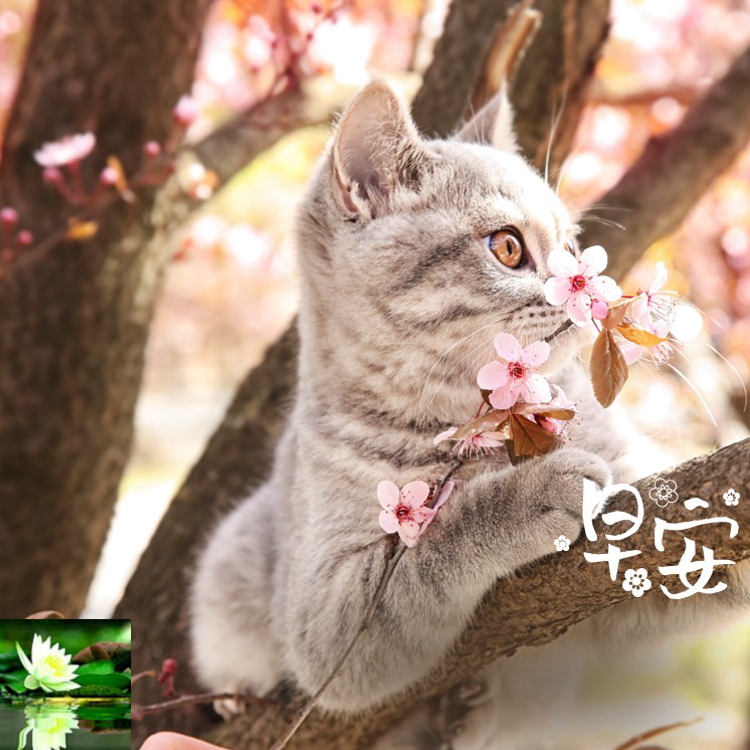
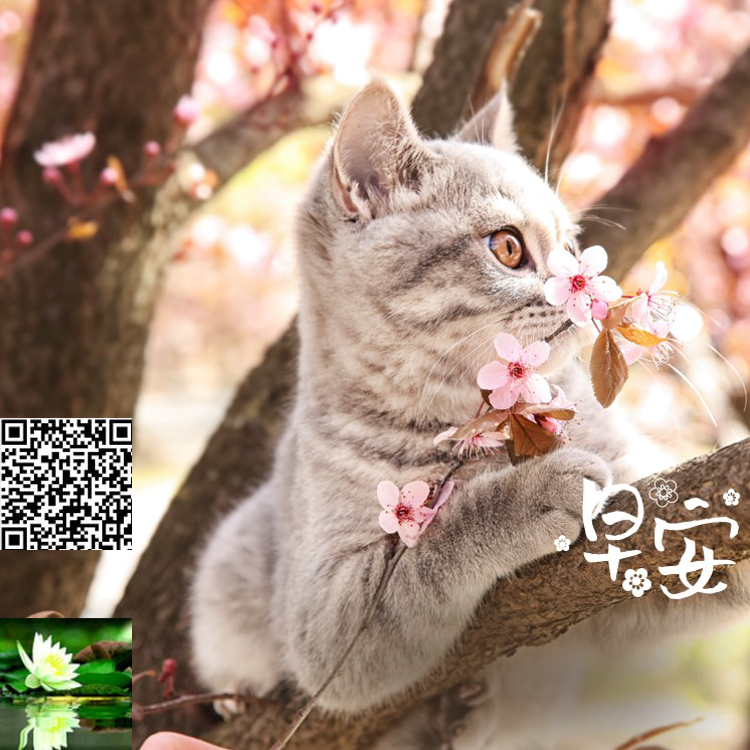
feat: use 3rd module cutter to clip image

Changed region(s): [[0.0, 0.552, 0.184, 0.736], [0.0, 0.828, 0.184, 1.0]]

diff --git a/src/canvas/image.go b/src/canvas/image.go
@@ -18,84 +18,6 @@ import (
 	// "github.com/golang/freetype/raster"
 )
 
-// 兜底图片方案的image_key在Image对象中传递
-func (i *Image) fetch() error {
-	var err error
-
-	if i.ImageURL == "" {
-		err = errors.New("image url can not be empty")
-		log.Info().
-			Err(err).
-			Msg("fetch one image failed, error")
-		return err
-	}
-	var img []byte
-	var t string
-	// if image.LocalBufferName != "" {
-	// 	name := fmt.Sprintf("%s::%s", businessName, image.LocalBufferName)
-	// 	img, t, err = b.getLocalBufferImage(name, image)
-	// 	libs.Log().Info("trace_id(%s) get image(%+v) from local buffer, err(%+v)", traceId, image, err)
-	// } else {
-	img, t, err = loadImageByteFromRemote(i.ImageURL, i.Width, i.Height)
-	// libs.Log().Info("trace_id(%s) get image(%+v) from remote, err(%+v)", traceId, image, err)
-	// }
-
-	i.MimeType = t
-	i.Buffer = img
-	return nil
-}
-
-// imageWidth: number,
-// imageHeight: number,
-// offsetX: number,
-// offsetY: number,
-// radius: number | number[]
-// func RoundMask(w float64, h float64, r float64) {
-// 	// p := &Path{}
-// 	// p.MoveTo(rx, 0.0)
-// 	// p.ArcTo(rx, ry, 0.0, false, true, -rx, 0.0)
-// 	// p.ArcTo(rx, ry, 0.0, false, true, rx, 0.0)
-// 	// p.Close()
-// 	return p
-// }
-
-// ClipPreserve updates the clipping region by intersecting the current
-// clipping region with the current path as it would be filled by dc.Fill().
-// The path is preserved after this operation.
-func ClipPreserve(c *canvas.Context, i *Image, dst *image.RGBA) (draw.Image, error) {
-	fmt.Println("ClipPreserve === 1", c.Width(), c.Height(), i.BorderRadius)
-	// var mask Path
-	mask := Path{*canvas.RoundedRectangle(i.Width, i.Height, i.BorderRadius), i}
-	fmt.Println("ClipPreserve === 2", mask)
-	tempPath := imaging.Resize(&mask, int(i.Width), int(i.Height), imaging.Linear)
-
-	fmt.Println("ClipPreserve === TODO 3")
-	fmt.Println("ClipPreserve === 4", i.Y, i.Height)
-	// &Circle{pt, dx / 2}, nil
-	// golang-draw传入的是图片的起点，取负值不知道为什么
-	// pt := image.Pt(-int(i.X), -int(i.Y))
-
-	// zero := image.Pt(0, 0)
-
-	pt := image.Pt(-int(i.X), -int(i.Y))
-	// painter := raster.NewAlphaOverPainter(clip)
-	// dc.fill(painter)
-	// if dc.mask == nil {
-	// 	dc.mask = clip
-	// } else {
-	// mask := image.NewAlpha(image.Rect(0, 0, dc.width, dc.height))
-
-	img, _ := ConvertBytesToImage(i.Buffer, i.MimeType)
-
-	fmt.Println("ClipPreserve === 5")
-	// image.ZP
-	draw.DrawMask(dst, dst.Bounds(), img, pt, tempPath, pt, draw.Over)
-	// dc.mask = mask
-	// }
-
-	return dst, nil
-}
-
 // Draw image
 func (i *Image) Draw(c *canvas.Context) {
 	// draw.DrawMask(dst, dst.Bounds(), src, image.ZP, &circle{p, r}, image.ZP, draw.Over)
@@ -116,23 +38,36 @@ func (i *Image) Draw(c *canvas.Context) {
 
 	// fmt.Println("===4")
 	img, _ := ConvertBytesToImage(i.Buffer, i.MimeType)
-	fmt.Println("=== image_draw: ", i.MimeType, i.ImageURL, i.Width, i.Height)
 
-	// 获取实际图片尺寸和传入参数之间的比例
-	scale := (float64(img.Bounds().Dx()) / i.Width)
-	fmt.Println("=== scale", scale)
+	// fmt.Println("=== scale", scale, i.Width)
 
 	// test 图片切圆角功能
 	// if i.BorderRadius > 0 {
-	dst := image.NewRGBA(image.Rect(0, 0, int(i.Width), int(i.Height)))
-	img, _ = ClipPreserve(c, i, dst)
+	// 	dst := image.NewRGBA(image.Rect(0, 0, int(i.Width), int(i.Height)))
+	// 	img, _ = ClipPreserve(c, i, dst)
 
-	fmt.Println("=====img", img.Bounds())
+	// 	fmt.Println("=====ClipPreserve", img.Bounds())
 	// }
 
-	c.DrawImage(i.X, i.Y*-1-i.Height, img, scale)
+	// test 图片边缘裁剪
+	// 获取实际图片尺寸和传入参数之间的比例
+	scale := (float64(img.Bounds().Dx()) / i.Width)
 
-	// c.DrawImage(i.X, i.Y, image, scale)
+	// TODO: 阿里云oss resize不会对图片进行放大,只能缩小，所以绘制时仍然要依赖绘图库进行图片缩放
+	// TODO: 2020.4.7 考虑将计算缩放比率放到切图之后
+	// if i.Clip.Width > 0 {
+	// 	fmt.Println("beforeClipped", img.Bounds())
+	// 	croppedImg, _ := cutter.Crop(img, cutter.Config{
+	// 		Width:  i.Clip.Width,
+	// 		Height: i.Clip.Height,
+	// 		Anchor: image.Point{i.Clip.X, i.Clip.Y},
+	// 	})
+	// 	img = croppedImg
+	// }
+
+	fmt.Println("=== image_draw: ", i.MimeType, i.ImageURL, i.Width, i.Height, scale, img.Bounds().Dx(), img.Bounds())
+	c.DrawImage(i.X, i.Y*-1-i.Height, img, scale)
+	// c.DrawImage(i.X, i.Y, img, scale)
 }
 
 // ConvertBytesToImage 将二进制流转化为图片
@@ -156,6 +91,92 @@ func ConvertBytesToImage(imgByte []byte, t string) (image.Image, error) {
 	}
 
 	return img, err
+}
+
+// 兜底图片方案的image_key在Image对象中传递
+func (i *Image) fetch() error {
+	var err error
+
+	if i.ImageURL == "" {
+		err = errors.New("image url can not be empty")
+		log.Info().
+			Err(err).
+			Msg("fetch one image failed, error")
+		return err
+	}
+	var img []byte
+	var t string
+	// if image.LocalBufferName != "" {
+	// 	name := fmt.Sprintf("%s::%s", businessName, image.LocalBufferName)
+	// 	img, t, err = b.getLocalBufferImage(name, image)
+	// 	libs.Log().Info("trace_id(%s) get image(%+v) from local buffer, err(%+v)", traceId, image, err)
+	// } else {
+	img, t, err = loadImageByteFromRemote(i.ImageURL, i.Width, i.Height)
+	// libs.Log().Info("trace_id(%s) get image(%+v) from remote, err(%+v)", traceId, image, err)
+	// }
+
+	i.MimeType = t
+
+	// TODO: test code
+	// if i.Clip.Width > 0 {
+	// 	qcode, _ := os.Open("../static/raw_qrcode.png")
+	// 	reader := bufio.NewReader(qcode)
+	// 	img, _ = ioutil.ReadAll(reader)
+	// 	// img, _ = jpeg.Decode(qcode)
+	// }
+	i.Buffer = img
+	return nil
+}
+
+// imageWidth: number,
+// imageHeight: number,
+// offsetX: number,
+// offsetY: number,
+// radius: number | number[]
+// func RoundMask(w float64, h float64, r float64) {
+// 	// p := &Path{}
+// 	// p.MoveTo(rx, 0.0)
+// 	// p.ArcTo(rx, ry, 0.0, false, true, -rx, 0.0)
+// 	// p.ArcTo(rx, ry, 0.0, false, true, rx, 0.0)
+// 	// p.Close()
+// 	return p
+// }
+
+// ClipPreserve updates the clipping region by intersecting the current
+// clipping region with the current path as it would be filled by dc.Fill().
+// The path is preserved after this operation.
+func ClipPreserve(c *canvas.Context, i *Image, dst *image.RGBA) (draw.Image, error) {
+	// fmt.Println("ClipPreserve === 1", c.Width(), c.Height(), i.BorderRadius)
+	// var mask Path
+	mask := Path{*canvas.RoundedRectangle(i.Width, i.Height, i.BorderRadius), i}
+	// fmt.Println("ClipPreserve === 2", mask)
+	tempPath := imaging.Resize(&mask, int(i.Width), int(i.Height), imaging.Linear)
+
+	// fmt.Println("ClipPreserve === TODO 3")
+	// fmt.Println("ClipPreserve === 4", i.Y, i.Height)
+	// &Circle{pt, dx / 2}, nil
+	// golang-draw传入的是图片的起点，取负值不知道为什么
+	// pt := image.Pt(-int(i.X), -int(i.Y))
+
+	// zero := image.Pt(0, 0)
+
+	pt := image.Pt(-int(i.X), -int(i.Y))
+	// painter := raster.NewAlphaOverPainter(clip)
+	// dc.fill(painter)
+	// if dc.mask == nil {
+	// 	dc.mask = clip
+	// } else {
+	// mask := image.NewAlpha(image.Rect(0, 0, dc.width, dc.height))
+
+	img, _ := ConvertBytesToImage(i.Buffer, i.MimeType)
+
+	// fmt.Println("ClipPreserve === 5")
+	// image.ZP
+	draw.DrawMask(dst, dst.Bounds(), img, pt, tempPath, pt, draw.Over)
+	// dc.mask = mask
+	// }
+
+	return dst, nil
 }
 
 // func drawImage(c *canvas.Context) {

diff --git a/src/canvas/canvas_test.go b/src/canvas/canvas_test.go
@@ -37,11 +37,18 @@ func TestCreateImage(t *testing.T) {
 		&Image{
 			// name: "qrCode"
 			// DrawType: "image",
-			ImageURL: "https://img.laiye.com/G0gmxRbVb4EtnpEi1mUK2FkTk5HcCuK6mbX7lj5qFYbU3D0A.png",
-			X:        930,
-			Y:        930,
-			Height:   150,
-			Width:    150,
+			ImageURL: "https://img.laiye.com/material_20200407053339_aiGLseDwFQ.jpeg",
+			// ImageURL: "https://img.laiye.com/material_20200407120852_aZpTetKBRb.jpg",
+			X:      930,
+			Y:      930,
+			Height: 150,
+			Width:  150,
+			Clip: ImageClip{
+				Width:  132,
+				Height: 132,
+				X:      9,
+				Y:      9,
+			},
 		},
 		&Text{
 			// name: "chickenMessage"
@@ -155,6 +162,29 @@ func TestCreateImage(t *testing.T) {
 	CreateImage(data, global)
 }
 
+func TestCreateQcode(t *testing.T) {
+	// 塞到[]drawer之前就拆成两个数组
+	data := []Drawer{
+		&Image{
+			ImageURL: "https://img.laiye.com/material_20200407053339_aiGLseDwFQ.jpeg",
+			X:        0,
+			Y:        0,
+			Height:   100,
+			Width:    100,
+		},
+	}
+
+	global := GlobalConfig{
+		Width:    400,
+		Height:   400,
+		FileName: "test_qcode.png",
+	}
+
+	// fmt.Println(data, global)
+	CreateImage(data, global)
+
+}
+
 func TestBasicDrawImage(t *testing.T) {
 	c := Canvas{canvas.New(750, 750)}
 	ctx := canvas.NewContext(c)
@@ -171,7 +201,11 @@ func TestBasicDrawImage(t *testing.T) {
 	// image2 start (-1,-1) trying to fix margin
 	head, _ := os.Open("../static/head.jpg")
 	img, _ := jpeg.Decode(head)
-	ctx.DrawImage(-1, -1, img, 1)
+	ctx.DrawImage(0, 0, img, 1)
+
+	qcode, _ := os.Open("../static/qrcode.jpg")
+	qcodeImg, _ := jpeg.Decode(qcode)
+	ctx.DrawImage(0, 200, qcodeImg, 1)
 
 	c.SavePNG("test_position.png", 1)
 }

diff --git a/src/canvas/util.go b/src/canvas/util.go
@@ -34,6 +34,7 @@ func reformatURL(imageURL string, w float64, h float64) (string, error) {
 		// 调用 resize，默认是不允许放大。即如果请求的图片比原图大，那么返回的仍然是原图。如果想取到放大的图片，即增加参数调用 limit_0 （如：https://image-demo.oss-cn-hangzhou.aliyuncs.com/example.jpg?x-oss-process=image/resize,w_500,limit_0）
 		// @see https://help.aliyun.com/document_detail/44688.html?spm=a2c4g.11186623.6.1367.57f117f1UQGsW3
 		// oss实时缩图，注意oss不支持float，所以这里要强转
+		// TODO: 如果使用oss resize，二维码会变形，原因未知
 		imageURL += fmt.Sprintf("?x-oss-process=image/resize,m_lfit,h_%d,w_%d,limit_0", uint32(h), uint32(w))
 	}
 
@@ -55,10 +56,13 @@ func getFileContentType(buffer []byte) (string, error) {
 func loadImageByteFromRemote(imgURL string, w float64, h float64) ([]byte, string, error) {
 	img := []byte{}
 	var t string
+
+	// TODO: 使用阿里云oss处理图片 如果使用oss拉取图片，就变形了
 	imgURL, err := reformatURL(imgURL, w, h)
 	if err != nil {
 		return img, t, err
 	}
+
 	response, err := request.
 		Get(imgURL).
 		SetTransport(config.ImageTransport).

diff --git a/src/canvas/canvas_type.go b/src/canvas/canvas_type.go
@@ -20,7 +20,7 @@ type GlobalConfig struct {
 
 // ImageClip is clip image config
 type ImageClip struct {
-	width, height, x, y int32
+	Width, Height, X, Y int
 }
 
 // Text config
@@ -53,8 +53,8 @@ type Image struct {
 	DrawWrapper
 	X, Y, Width, Height, Opacity, BorderRadius float64
 	ImageURL, MimeType                         string
-	Clip                                       ImageClip
 	Buffer                                     []byte
+	Clip                                       ImageClip
 }
 
 // Rect is a rectangle in 2D defined by a position and its width and height.
@@ -98,4 +98,3 @@ type Font struct {
 // 	}
 // 	return color.Alpha{0}
 // }
-

diff --git a/src/canvas/canvas.go b/src/canvas/canvas.go
@@ -4,6 +4,8 @@ import (
 	"bufio"
 	"encoding/base64"
 	"fmt"
+	"image/color"
+
 	// "image/color"
 	"io/ioutil"
 	"os"
@@ -63,6 +65,12 @@ func CreateImage(d []Drawer, g GlobalConfig) {
 	fmt.Println("create image", len(d), g)
 
 	c := Canvas{canvas.New(g.Width, g.Height)}
+
+	ctx := canvas.NewContext(c)
+
+	// to draw a red background
+	ctx.SetFillColor(color.RGBA{0xff, 0x00, 0x00, 0xff})
+	ctx.DrawPath(0, 0, canvas.Rectangle(g.Width, g.Height))
 
 	// 对*canvas.Draw函数传入绘图数据
 	c.Draw(d)
